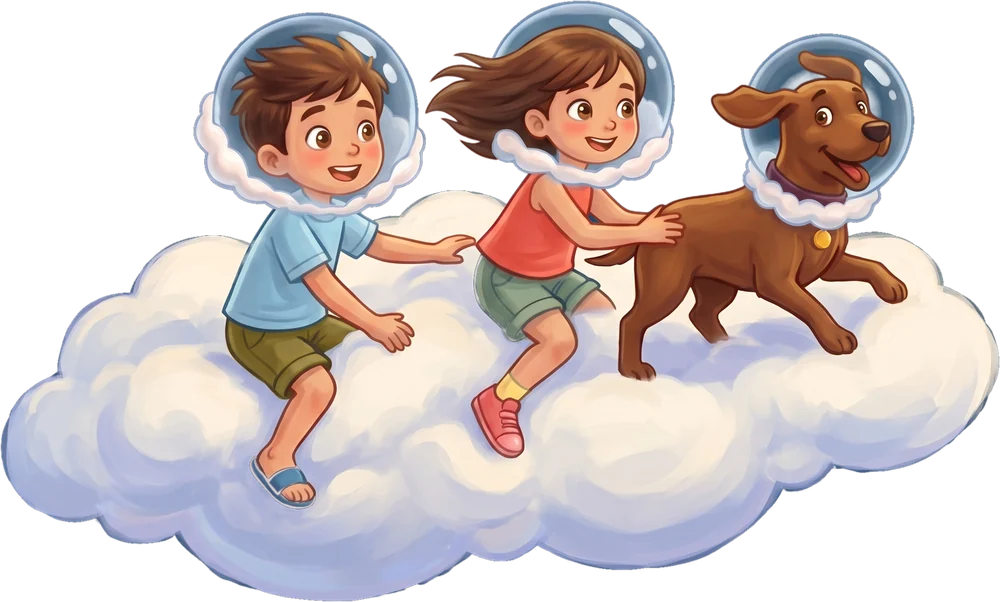
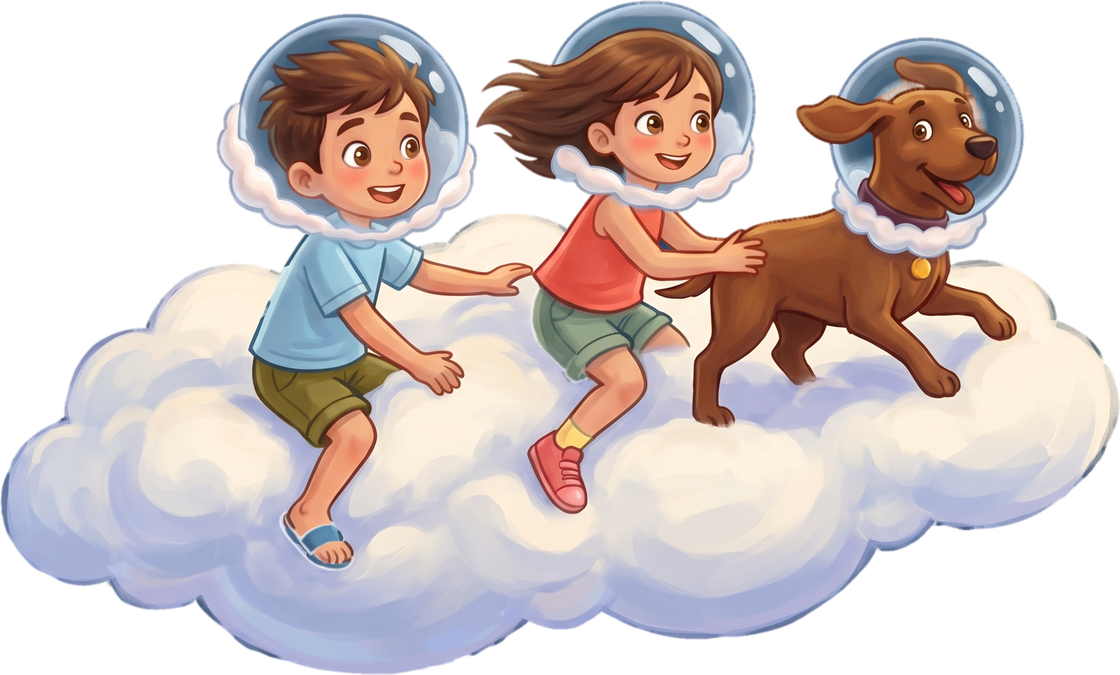
Homepage round 2: question bubble, real reader, cleaned character art
- Hero: the kids' questions now appear one at a time in a speech bubble with the
  matching story art; "bis es [Aha!] macht" with a popping Aha sticker
- Simulator: "Neues entdecken" removed; "Gemeinsam vorlesen" is a real reader with
  pages 1–3 of "Schafalarm im Sonnenfeld" (approved pages, app text): scroll the
  text, turn pages (buttons, swipe, arrow keys), hide the text, back to the book
  page, end screen pointing to the app. Phones and narrow columns get a readable
  card instead of the sideways phone
- Feature chips removed
- "Warum aha Kids": character art defringed (dark halo removed, lossless WebP)
  and floating gently with a soft shadow

diff --git a/index.html b/index.html
@@ -127,8 +127,23 @@
     @keyframes draw { to { stroke-dashoffset:0; } }
     .hero-spark { position:absolute; width:74px; height:74px; right:-52px; top:-30px; }
     .hero-spark path { stroke-dasharray:1; stroke-dashoffset:1; animation:draw .5s 1.3s ease-out forwards; }
-    .hero-lead { font-size:clamp(1.12rem, 1.6vw, 1.3rem); max-width:600px; margin-bottom:1rem; }
-    .hero-lead strong { font-weight:600; }
+    .sr { position:absolute; width:1px; height:1px; overflow:hidden; clip:rect(0 0 0 0); white-space:nowrap; }
+    /* hero: kids' questions, one at a time, in a speech bubble (brand speech frame) */
+    .ask { margin:.1rem 0 1.15rem; max-width:560px; }
+    .ask-bubble { position:relative; display:flex; align-items:center; gap:16px; background:#fff; border:3px solid var(--orange); border-radius:28px; padding:12px 24px 12px 12px; box-shadow:0 14px 34px rgba(23,63,53,.1); }
+    .ask-bubble::after { content:""; position:absolute; left:46px; bottom:-14px; width:24px; height:24px; background:#fff; border-right:3px solid var(--orange); border-bottom:3px solid var(--orange); border-bottom-right-radius:6px; transform:rotate(45deg); }
+    .ask-art { position:relative; flex:0 0 auto; width:68px; height:68px; border-radius:50%; border:4px solid var(--forest); overflow:hidden; background:var(--sky-bg); }
+    .ask-art img { position:absolute; inset:0; width:100%; height:100%; object-fit:cover; opacity:0; transform:scale(1.18); transition:opacity .5s, transform 1.1s cubic-bezier(.22,1,.36,1); }
+    .ask-art img.on { opacity:1; transform:scale(1); }
+    .ask-q { position:relative; flex:1; min-height:2.4em; font:800 clamp(1.3rem, 2.05vw, 1.62rem)/1.15 var(--display); text-align:left; }
+    .ask-q > span { position:absolute; left:0; right:0; top:50%; opacity:0; transform:translateY(calc(-50% + 20px)); transition:opacity .45s, transform .6s cubic-bezier(.22,1,.36,1); }
+    .ask-q > span.on { opacity:1; transform:translateY(-50%); }
+    .ask-q > span.out { opacity:0; transform:translateY(calc(-50% - 20px)); }
+    .ask-q em { font-style:normal; color:var(--orange); }
+    .ask-answer { margin-top:26px; font-size:clamp(1.08rem, 1.5vw, 1.24rem); line-height:1.5; }
+    .aha { display:inline-block; background:var(--orange); color:var(--forest); font:800 1.06em/1 var(--display); padding:.16em .55em .2em; border-radius:100px; transform:rotate(-5deg); margin:0 .12em; }
+    .aha.pop { animation:aha .65s cubic-bezier(.34,1.56,.64,1); }
+    @keyframes aha { 0% { transform:rotate(-5deg) scale(1); } 40% { transform:rotate(-10deg) scale(1.2); } 100% { transform:rotate(-5deg) scale(1); } }
     .hero-sub { color:var(--text-soft); max-width:580px; margin-bottom:2rem; }
     .hero-actions { display:flex; flex-wrap:wrap; gap:14px; align-items:center; }
     .hero-paper { margin-top:1.4rem; font-size:.95rem; color:var(--text-soft); }
@@ -170,7 +185,7 @@
 
     /* ===== DIE APP (cream, simulator) ===== */
     .app { padding:110px 0 110px; }
-    .app-grid { display:grid; grid-template-columns:minmax(0, 1fr) 520px; gap:56px; align-items:center; margin-top:46px; }
+    .app-grid { display:grid; grid-template-columns:minmax(0, 1fr) 640px; gap:48px; align-items:center; margin-top:46px; }
     .app-grid > *, .hero-grid > *, .warum-grid > *, .cta-grid > * { min-width:0; }
     .steps { list-style:none; display:flex; flex-direction:column; gap:10px; }
     .step { position:relative; width:100%; display:grid; grid-template-columns:44px 1fr; gap:4px 16px; text-align:left; cursor:pointer; overflow:hidden;
@@ -186,9 +201,6 @@
     .step-prog::after { content:""; display:block; height:100%; width:0; background:var(--sun); }
     .step.run .step-prog::after { animation:prog var(--step-ms, 6500ms) linear forwards; }
     @keyframes prog { to { width:100%; } }
-    .chips { display:flex; flex-wrap:wrap; gap:10px; margin-top:26px; }
-    .chip { display:inline-flex; align-items:center; gap:8px; padding:.5rem .95rem; border-radius:100px; background:var(--mist); font-size:.9rem; font-weight:600; }
-    .chip svg { width:17px; height:17px; color:var(--leaf); }
     .step-detail { display:none; }
 
     .stage { position:relative; height:700px; display:flex; align-items:center; justify-content:center; }
@@ -201,7 +213,56 @@
     .scr { position:absolute; inset:0; opacity:0; visibility:hidden; transition:opacity .45s, visibility 0s .45s; }
     .scr.on { opacity:1; visibility:visible; transition:opacity .45s; }
     .scr > img { width:100%; height:100%; object-fit:cover; }
-    .scr-read img { position:absolute; left:50%; top:50%; width:100cqh; height:100cqw; max-width:none; object-fit:cover; transform:translate(-50%,-50%) rotate(90deg); }
+    /* interactive reader: „Schafalarm im Sonnenfeld“, pages 1–3 (inside the sideways phone; sizes in cqw = screen width) */
+    .reader { position:absolute; left:50%; top:50%; width:100cqh; height:100cqw; transform:translate(-50%,-50%) rotate(90deg); overflow:hidden; background:#cfe3ef; color:#103830; font-family:var(--body); outline:none; }
+    .rd-stage { position:absolute; inset:0; overflow:hidden; touch-action:pan-y; }
+    .rd-page { position:absolute; inset:0; width:100%; height:100%; max-width:none; object-fit:cover; opacity:0; transform:translateX(26%); transition:transform .6s cubic-bezier(.22,1,.36,1), opacity .5s; -webkit-user-drag:none; user-select:none; }
+    .rd-page.on { opacity:1; transform:none; }
+    .rd-page.prev { transform:translateX(-26%); }
+    .rd-top { position:absolute; left:9%; top:6%; display:flex; gap:2.4cqw; align-items:center; z-index:3; }
+    .rd-btn { flex:0 0 auto; width:10cqw; height:10cqw; padding:0; border:0; border-radius:50%; background:rgba(255,255,255,.85); color:#103830; display:flex; align-items:center; justify-content:center; cursor:pointer; box-shadow:0 2px 6px rgba(0,0,0,.12); transition:background .2s, transform .2s; }
+    .rd-btn:hover { background:#fff; transform:scale(1.06); }
+    .rd-btn:disabled { opacity:.45; cursor:default; transform:none; }
+    .rd-btn svg { width:46%; height:46%; }
+    .rd-pill { height:10cqw; padding:0 3.8cqw; border-radius:100px; background:rgba(255,255,255,.88); display:flex; align-items:center; font-size:4.3cqw; font-weight:600; white-space:nowrap; }
+    .rd-eye { position:absolute; right:3%; top:6%; z-index:3; }
+    .rd-eye .i-show, .reader.no-text .rd-eye .i-hide { display:none; }
+    .reader.no-text .rd-eye .i-show { display:block; }
+    .rd-nav { position:absolute; right:3%; bottom:7%; display:flex; gap:2.4cqw; z-index:3; }
+    .rd-nav .rd-btn { width:12cqw; height:12cqw; }
+    .rd-next { background:var(--sun); }
+    .rd-next:hover { background:#f9d363; }
+    .rd-next.nudge { animation:nudge 1.6s ease-in-out 2; }
+    @keyframes nudge { 0%,100% { transform:none; } 50% { transform:translateX(5px); } }
+    .rd-panel { position:absolute; left:9%; top:23%; bottom:6%; width:39%; z-index:2; background:rgba(255,255,255,.88); -webkit-backdrop-filter:blur(6px); backdrop-filter:blur(6px); border-radius:5cqw; padding:3.6cqw 2.2cqw 3.6cqw 4.4cqw; transition:opacity .35s, transform .35s; }
+    .rd-panel::after { content:""; position:absolute; left:0; right:0; bottom:0; height:26%; border-radius:0 0 5cqw 5cqw; background:linear-gradient(rgba(255,255,255,0), rgba(255,255,255,.96)); pointer-events:none; opacity:var(--more, 1); transition:opacity .3s; }
+    .reader.no-text .rd-panel { opacity:0; transform:translateX(-10%); pointer-events:none; }
+    .rd-text { height:100%; overflow-y:auto; padding-right:2.2cqw; font-size:4.7cqw; line-height:1.5; overscroll-behavior:contain; scrollbar-width:thin; scrollbar-color:rgba(16,56,48,.35) transparent; }
+    .rd-text p + p { margin-top:.6em; }
+    .rd-scroll { position:absolute; left:50%; bottom:2.2cqw; transform:translateX(-50%); z-index:2; font-size:3.4cqw; font-weight:600; color:#103830; background:var(--sun); padding:.5cqw 2.6cqw; border-radius:100px; opacity:var(--more, 1); transition:opacity .3s; pointer-events:none; white-space:nowrap; }
+    .rd-end { position:absolute; inset:0; z-index:4; display:flex; flex-direction:column; align-items:center; justify-content:center; gap:2.6cqw; text-align:center; padding:0 14%; background:rgba(23,63,53,.9); color:var(--cream); opacity:0; pointer-events:none; transition:opacity .4s; }
+    .reader.at-end .rd-end { opacity:1; pointer-events:auto; }
+    .reader.at-end .rd-panel, .reader.at-end .rd-eye { opacity:0; pointer-events:none; }
+    .rd-end b { font:800 7.4cqw/1.15 var(--display); }
+    .rd-end span { font-size:4.6cqw; line-height:1.4; }
+    .rd-end button { margin-top:1.4cqw; border:0; border-radius:100px; background:var(--sun); color:var(--forest); font:600 4.6cqw var(--body); padding:2.4cqw 5.4cqw; cursor:pointer; }
+    /* card mode (phones, narrow columns): the same reader, readable, without the sideways phone */
+    .reader-card { display:none; width:100%; max-width:560px; container-type:inline-size; }
+    .stage.card-mode .phone { display:none; }
+    .stage.card-mode .reader-card { display:block; }
+    .reader-card .reader { position:relative; left:auto; top:auto; width:100%; height:auto; transform:none; overflow:visible; background:none; }
+    .reader-card .rd-stage { position:relative; inset:auto; aspect-ratio:1400/594; border-radius:20px; box-shadow:0 18px 40px rgba(23,63,53,.2); }
+    .reader-card .rd-top { gap:8px; left:3%; }
+    .reader-card .rd-btn { width:38px; height:38px; }
+    .reader-card .rd-nav .rd-btn { width:44px; height:44px; }
+    .reader-card .rd-pill { height:38px; padding:0 14px; font-size:14px; }
+    .reader-card .rd-panel { position:relative; left:auto; top:auto; bottom:auto; width:auto; margin-top:14px; padding:16px 10px 16px 18px; border-radius:20px; background:#fff; box-shadow:0 10px 26px rgba(23,63,53,.08); }
+    .reader-card .rd-panel::after { border-radius:0 0 20px 20px; }
+    .reader-card .rd-text { height:11.5em; font-size:16px; padding-right:10px; }
+    .reader-card .rd-scroll { bottom:10px; font-size:12px; padding:3px 10px; }
+    .reader-card .reader.no-text .rd-panel { opacity:.35; transform:none; }
+    .reader-card .rd-end { border-radius:20px; bottom:auto; height:calc(100cqw * 594 / 1400); gap:8px; padding:0 8%; }
+    .reader-card .rd-end b { font-size:20px; } .reader-card .rd-end span { font-size:14px; } .reader-card .rd-end button { font-size:14px; padding:8px 18px; }
     .sbar { position:absolute; top:0; left:0; right:0; height:52px; z-index:8; display:flex; align-items:center; justify-content:space-between; padding:6px 26px 0 30px; font:600 13px var(--body); color:#103830; pointer-events:none; transition:opacity .3s; }
     .phone.landscape .sbar { opacity:0; }
     .sim-play { position:absolute; left:50%; top:83.5%; width:17.8%; aspect-ratio:1; transform:translate(-50%,-50%); border-radius:50%; border:0; cursor:pointer; background:transparent; z-index:5; }
@@ -269,7 +330,11 @@
     .pillar h3 { font-size:1.28rem; align-self:end; }
     .pillar p { color:var(--text-soft); font-size:.98rem; }
     .cast { position:relative; text-align:center; }
-    .cast img { width:100%; max-width:560px; margin:0 auto; filter:drop-shadow(0 26px 40px rgba(23,63,53,.16)); }
+    .cast-art { position:relative; max-width:560px; margin:0 auto; padding-bottom:30px; }
+    .cast-art img { position:relative; z-index:1; width:100%; filter:drop-shadow(0 14px 22px rgba(23,63,53,.12)); animation:floaty 7s ease-in-out infinite; will-change:transform; }
+    .cast-art::after { content:""; position:absolute; left:24%; right:24%; bottom:6px; height:26px; border-radius:50%; background:radial-gradient(closest-side, rgba(23,63,53,.24), rgba(23,63,53,0)); animation:floatshadow 7s ease-in-out infinite; }
+    @keyframes floaty { 0%, 100% { transform:translateY(0) rotate(-.8deg); } 50% { transform:translateY(-16px) rotate(.8deg); } }
+    @keyframes floatshadow { 0%, 100% { transform:scaleX(1); opacity:1; } 50% { transform:scaleX(.8); opacity:.55; } }
     .cast-cap { display:inline-block; margin-top:8px; font:800 1.5rem var(--display); }
     .promise { margin-top:52px; text-align:center; font:800 clamp(1.25rem, 2.4vw, 1.7rem)/1.3 var(--display); }
     .promise svg { display:inline-block; vertical-align:-6px; width:30px; height:30px; margin-right:8px; }
@@ -306,8 +371,11 @@
     .reveal.visible { opacity:1; transform:none; }
 
     /* ===== responsive ===== */
+    @media (max-width:1240px) {
+      .app-grid { grid-template-columns:minmax(0, 1fr) 520px; gap:40px; }
+    }
     @media (max-width:1060px) {
-      .app-grid { grid-template-columns:minmax(0,1fr) 400px; gap:36px; }
+      .app-grid { grid-template-columns:minmax(0,1fr) 440px; gap:36px; }
       .tracks { grid-template-columns:1fr; max-width:560px; }
       .track { display:grid; grid-template-columns:auto 1fr; gap:0 22px; align-items:center; }
       .track-art { width:104px; height:104px; margin:0; grid-row:span 3; }
@@ -319,7 +387,8 @@
       .hero-media { order:-1; display:flex; justify-content:center; }
       .film { height:auto; width:min(100%, 400px); min-height:0; }
       .hero-copy { text-align:center; }
-      .hero-lead, .hero-sub { margin-left:auto; margin-right:auto; }
+      .hero-sub, .ask { margin-left:auto; margin-right:auto; }
+      .ask-bubble { text-align:left; }
       .hero-actions { justify-content:center; }
       .hero-spark { display:none; }
       .app-grid { grid-template-columns:1fr; gap:10px; }
@@ -333,7 +402,6 @@
       .step-text { display:none; }
       .step-prog { left:14px; right:14px; bottom:4px; }
       .step-detail { display:block; min-height:4.8em; margin-top:10px; font-size:1.02rem; color:var(--text-soft); text-align:center; }
-      .chips { justify-content:center; }
       .stage { height:620px; }
       .warum-grid, .cta-grid { grid-template-columns:1fr; }
       .cast { order:-1; }
@@ -354,6 +422,8 @@
       html { scroll-behavior:auto; }
       .reveal { opacity:1; transform:none; transition:none; }
       .hero h1 .ul svg path, .hero-spark path { animation:none; stroke-dashoffset:0; }
+      .cast-art img, .cast-art::after, .aha.pop, .rd-next.nudge { animation:none; }
+      .ask-q > span, .ask-art img, .rd-page { transition:none; }
       .phone, .bubble, .track, .btn { transition:none; }
       .sim-play::before { animation:none; }
     }
@@ -375,7 +445,14 @@
           <span class="ul"><span data-de="bessere Zukunft." data-en="better future.">bessere Zukunft.</span><svg viewBox="0 0 600 80" preserveAspectRatio="none" aria-hidden="true"><path pathLength="1" d="M20 45 Q316.8 34 580 41" stroke="#FF981C" stroke-width="14" stroke-linecap="round" fill="none" vector-effect="non-scaling-stroke"/></svg></span>
           <svg class="hero-spark" viewBox="0 0 200 200" aria-hidden="true"><g transform="translate(62 100) scale(1.1)" stroke="#FF981C" stroke-width="12" stroke-linecap="round" fill="none"><path pathLength="1" d="M0 -18 L12 -50"/><path pathLength="1" d="M24 0 L58 -8"/><path pathLength="1" d="M20 25 L47 48"/></g></svg>
         </h1>
-        <p class="hero-lead reveal" data-de="Wohin reist ein Regentropfen? Wie wird Sonne zu Strom? Kinder stellen große Fragen. aha Kids antwortet mit spannenden Geschichten – bis es Aha macht." data-en="Where does a raindrop travel? How does sunshine become electricity? Children ask big questions. aha Kids answers with exciting stories – until it clicks.">Wohin reist ein Regentropfen? Wie wird Sonne zu Strom? Kinder stellen große Fragen. aha Kids antwortet mit spannenden Geschichten – bis es Aha macht.</p>
+        <div class="ask reveal">
+          <p class="sr" data-de="Kinder fragen zum Beispiel: Wohin reist ein Regentropfen? Wie wird Sonne zu Strom?" data-en="Children ask, for example: Where does a raindrop travel? How does sunshine become electricity?">Kinder fragen zum Beispiel: Wohin reist ein Regentropfen? Wie wird Sonne zu Strom?</p>
+          <div class="ask-bubble" aria-hidden="true">
+            <span class="ask-art"><img src="images/app/covers/sus10.jpg" alt="" class="on"><img src="images/app/covers/sus03.jpg" alt=""><img src="images/app/covers/sus20.jpg" alt=""><img src="images/app/covers/sus02.jpg" alt=""><img src="images/app/covers/sus25.jpg" alt=""><img src="images/app/covers/sus06.jpg" alt=""></span>
+            <span class="ask-q"><span class="on" data-de="Wohin reist ein Regentropfen?" data-en="Where does a raindrop travel?">Wohin reist ein Regentropfen?</span><span data-de="Wie wird Sonne zu Strom?" data-en="How does sunshine become electricity?">Wie wird Sonne zu Strom?</span><span data-de="Ist krummes Gemüse genauso lecker?" data-en="Is wonky veg just as tasty?">Ist krummes Gemüse genauso lecker?</span><span data-de="Warum brauchen Äpfel Wildbienen?" data-en="Why do apples need wild bees?">Warum brauchen Äpfel Wildbienen?</span><span data-de="Wie kann Zuckerrohr Sonne speichern?" data-en="How can sugarcane store sunlight?">Wie kann Zuckerrohr Sonne speichern?</span><span data-de="Warum schwitzt die Erde?" data-en="Why is the Earth sweating?">Warum schwitzt die Erde?</span></span>
+          </div>
+          <p class="ask-answer"><span data-de="Kinder stellen große Fragen. aha Kids antwortet mit spannenden Geschichten – bis es" data-en="Children ask big questions. aha Kids answers with exciting stories – until it goes">Kinder stellen große Fragen. aha Kids antwortet mit spannenden Geschichten – bis es</span> <span class="aha" aria-hidden="true">Aha!</span> <span data-de="macht." data-en="">macht.</span></p>
+        </div>
         <p class="hero-sub reveal" data-de="Mit Fiete, Lotte und Hund Paco entdeckt dein Kind Natur, Tiere, Umwelt und die kleinen Dinge, die unsere Welt besser machen. In der App zum Vorlesen, als Hörgeschichte und als Buch." data-en="With Fiete, Lotte and their dog Paco, your child discovers nature, animals, the environment and the little things that make our world a better place. In the app to read aloud, as an audio story and as a book.">Mit Fiete, Lotte und Hund Paco entdeckt dein Kind Natur, Tiere, Umwelt und die kleinen Dinge, die unsere Welt besser machen. In der App zum Vorlesen, als Hörgeschichte und als Buch.</p>
         <div class="hero-actions reveal">
           <a class="store" href="#" data-store aria-disabled="true">
@@ -454,17 +531,10 @@
           <ol class="steps" role="tablist" aria-label="Funktionen der App" data-aria-de="Funktionen der App" data-aria-en="App features">
             <li><button class="step on" type="button" role="tab" aria-selected="true" aria-controls="simStage" data-step="browse"><span class="step-num">1</span><span class="step-title" data-de="Geschichte aussuchen" data-en="Pick a story">Geschichte aussuchen</span><span class="step-text" data-de="Stöbert gemeinsam durch die Bibliothek. Einige Geschichten sind gratis, von allen anderen lest ihr die ersten Seiten als Vorschau." data-en="Browse the library together. Some stories are free, and you can preview the first pages of all the others.">Stöbert gemeinsam durch die Bibliothek. Einige Geschichten sind gratis, von allen anderen lest ihr die ersten Seiten als Vorschau.</span><span class="step-prog"></span></button></li>
             <li><button class="step" type="button" role="tab" aria-selected="false" aria-controls="simStage" data-step="book"><span class="step-num">2</span><span class="step-title" data-de="Worum geht’s?" data-en="What’s it about?">Worum geht’s?</span><span class="step-text" data-de="Jede Buchseite zeigt, worum es geht und was dein Kind dabei entdeckt. Mit „Weiterlesen“ geht es genau da weiter, wo ihr aufgehört habt." data-en="Each book page shows what the story is about and what your child will discover. “Continue” picks up exactly where you left off.">Jede Buchseite zeigt, worum es geht und was dein Kind dabei entdeckt. Mit „Weiterlesen“ geht es genau da weiter, wo ihr aufgehört habt.</span><span class="step-prog"></span></button></li>
-            <li><button class="step" type="button" role="tab" aria-selected="false" aria-controls="simStage" data-step="read"><span class="step-num">3</span><span class="step-title" data-de="Gemeinsam vorlesen" data-en="Read aloud together">Gemeinsam vorlesen</span><span class="step-text" data-de="Große Illustrationen im Querformat, der Text steht daneben. Text ausblenden und das Bild in Ruhe gemeinsam entdecken." data-en="Big landscape illustrations with the text beside them. Hide the text and explore the picture together.">Große Illustrationen im Querformat, der Text steht daneben. Text ausblenden und das Bild in Ruhe gemeinsam entdecken.</span><span class="step-prog"></span></button></li>
+            <li><button class="step" type="button" role="tab" aria-selected="false" aria-controls="simStage" data-step="read"><span class="step-num">3</span><span class="step-title" data-de="Gemeinsam vorlesen" data-en="Read aloud together">Gemeinsam vorlesen</span><span class="step-text" data-de="Große Illustrationen im Querformat, der Text steht daneben. Scrollt durch den Text, blättert weiter – oder blendet ihn aus und entdeckt das Bild gemeinsam. Probier’s aus!" data-en="Big landscape illustrations with the text beside them. Scroll the text, turn the page – or hide the text and explore the picture together. Try it!">Große Illustrationen im Querformat, der Text steht daneben. Scrollt durch den Text, blättert weiter – oder blendet ihn aus und entdeckt das Bild gemeinsam. Probier’s aus!</span><span class="step-prog"></span></button></li>
             <li><button class="step" type="button" role="tab" aria-selected="false" aria-controls="simStage" data-step="listen"><span class="step-num">4</span><span class="step-title" data-de="Einfach zuhören" data-en="Just listen">Einfach zuhören</span><span class="step-text" data-de="Viele Geschichten gibt es auch als Hörgeschichte. Play drücken und gemeinsam lauschen – tipp im Handy auf Play und hör rein." data-en="Many stories are also available as audio stories. Press play and listen together – tap play on the phone to hear it.">Viele Geschichten gibt es auch als Hörgeschichte. Play drücken und gemeinsam lauschen – tipp im Handy auf Play und hör rein.</span><span class="step-prog"></span></button></li>
-            <li><button class="step" type="button" role="tab" aria-selected="false" aria-controls="simStage" data-step="discover"><span class="step-num">5</span><span class="step-title" data-de="Neues entdecken" data-en="Discover more">Neues entdecken</span><span class="step-text" data-de="Neue Geschichten und die Lieblinge anderer Familien – auf der Entdecken-Seite gibt es immer wieder etwas Neues." data-en="New stories and other families’ favourites – there’s always something new on the Discover page.">Neue Geschichten und die Lieblinge anderer Familien – auf der Entdecken-Seite gibt es immer wieder etwas Neues.</span><span class="step-prog"></span></button></li>
           </ol>
           <p class="step-detail" id="stepDetail" aria-live="polite"></p>
-          <div class="chips">
-            <span class="chip"><svg viewBox="0 0 24 24" fill="none" stroke="currentColor" stroke-width="2.2" stroke-linecap="round" stroke-linejoin="round" aria-hidden="true"><path d="M12 3v12m0 0-4-4m4 4 4-4M5 21h14"/></svg><span data-de="Offline lesen" data-en="Read offline">Offline lesen</span></span>
-            <span class="chip"><svg viewBox="0 0 24 24" fill="none" stroke="currentColor" stroke-width="2.2" stroke-linecap="round" stroke-linejoin="round" aria-hidden="true"><circle cx="12" cy="12" r="9"/><path d="M3 12h18M12 3a14 14 0 0 1 0 18M12 3a14 14 0 0 0 0 18"/></svg><span data-de="Deutsch &amp; Englisch" data-en="German &amp; English">Deutsch &amp; Englisch</span></span>
-            <span class="chip"><svg viewBox="0 0 24 24" fill="none" stroke="currentColor" stroke-width="2.2" stroke-linecap="round" stroke-linejoin="round" aria-hidden="true"><circle cx="12" cy="12" r="9"/><path d="m5.6 5.6 12.8 12.8"/></svg><span data-de="Keine Fremdwerbung" data-en="No third-party ads">Keine Fremdwerbung</span></span>
-            <span class="chip"><svg viewBox="0 0 24 24" fill="none" stroke="currentColor" stroke-width="2.2" stroke-linecap="round" stroke-linejoin="round" aria-hidden="true"><rect x="4" y="10" width="16" height="11" rx="2.5"/><path d="M8 10V7a4 4 0 0 1 8 0v3"/></svg><span data-de="Käufe nur mit Eltern-Check" data-en="Purchases need a grown-up">Käufe nur mit Eltern-Check</span></span>
-          </div>
         </div>
 
         <div class="app-stage-col reveal">
@@ -500,14 +570,41 @@
                 </div>
                 <!-- 2–5 · real app screens (Michi's recordings) -->
                 <div class="scr" data-step="book"><img src="images/app/screens/bookpage.jpg" alt="Buchseite „Schafalarm im Sonnenfeld“ mit Weiterlesen, Von vorne und Hörgeschichte" data-alt-de="Buchseite „Schafalarm im Sonnenfeld“ mit Weiterlesen, Von vorne und Hörgeschichte" data-alt-en="Book page “Schafalarm im Sonnenfeld” with continue, start over and audio story" decoding="async"></div>
-                <div class="scr scr-read" data-step="read"><img src="images/app/screens/reader.jpg" alt="Lesemodus im Querformat: Illustration mit Text daneben" data-alt-de="Lesemodus im Querformat: Illustration mit Text daneben" data-alt-en="Landscape reading mode: illustration with the text beside it" decoding="async"></div>
+                <div class="scr scr-read" data-step="read">
+                  <div class="reader" id="reader" tabindex="0" aria-label="Leseprobe: Schafalarm im Sonnenfeld" data-aria-de="Leseprobe: Schafalarm im Sonnenfeld" data-aria-en="Reading sample: Schafalarm im Sonnenfeld">
+                    <div class="rd-stage" id="rdStage">
+                      <img class="rd-page on" src="images/app/reader/page-01.jpg" alt="Fiete, Lotte und Paco schauen über eine trockene Ebene auf etwas Blaues in der Ferne" data-alt-de="Fiete, Lotte und Paco schauen über eine trockene Ebene auf etwas Blaues in der Ferne" data-alt-en="Fiete, Lotte and Paco look across a dry plain at something blue in the distance" draggable="false">
+                      <img class="rd-page" src="images/app/reader/page-02.jpg" alt="Tashi in roter Jacke begrüßt Fiete, Lotte und Paco vor den Solarmodulen" data-alt-de="Tashi in roter Jacke begrüßt Fiete, Lotte und Paco vor den Solarmodulen" data-alt-en="Tashi in a red jacket welcomes Fiete, Lotte and Paco in front of the solar panels" draggable="false">
+                      <img class="rd-page" src="images/app/reader/page-03.jpg" alt="Eine Technikerin bürstet den Staub vom Solarmodul, ein Tropfen landet auf Pacos Nase" data-alt-de="Eine Technikerin bürstet den Staub vom Solarmodul, ein Tropfen landet auf Pacos Nase" data-alt-en="A technician brushes dust off a solar panel; a drop lands on Paco's nose" draggable="false">
+                      <div class="rd-top">
+                        <button class="rd-btn" type="button" id="rdClose" aria-label="Zurück zur Buchseite" data-aria-de="Zurück zur Buchseite" data-aria-en="Back to the book page"><svg viewBox="0 0 24 24" fill="none" stroke="currentColor" stroke-width="2.6" stroke-linecap="round" stroke-linejoin="round" aria-hidden="true"><path d="M6 6l12 12M18 6 6 18"/></svg></button>
+                        <button class="rd-btn" type="button" id="rdFirst" aria-label="Zur ersten Seite" data-aria-de="Zur ersten Seite" data-aria-en="To the first page" disabled><svg viewBox="0 0 24 24" fill="none" stroke="currentColor" stroke-width="2.6" stroke-linecap="round" stroke-linejoin="round" aria-hidden="true"><path d="M6 5v14M19 5l-9 7 9 7z" fill="currentColor"/></svg></button>
+                        <span class="rd-pill" id="rdPill">Seite 1 / 14</span>
+                      </div>
+                      <button class="rd-btn rd-eye" type="button" id="rdEye" aria-label="Text ausblenden" data-aria-de="Text ausblenden" data-aria-en="Hide text"><span class="i-hide"><svg viewBox="0 0 24 24" fill="none" stroke="currentColor" stroke-width="2.6" stroke-linecap="round" stroke-linejoin="round" aria-hidden="true"><path d="M2 12s3.6-7 10-7 10 7 10 7-3.6 7-10 7S2 12 2 12z"/><circle cx="12" cy="12" r="3"/></svg></span><span class="i-show"><svg viewBox="0 0 24 24" fill="none" stroke="currentColor" stroke-width="2.6" stroke-linecap="round" stroke-linejoin="round" aria-hidden="true"><path d="M3 3l18 18M10.6 6.1A10 10 0 0 1 12 6c6.4 0 10 6 10 6a17 17 0 0 1-3.3 3.9M6.6 6.6C3.7 8.4 2 12 2 12s3.6 7 10 7a9.6 9.6 0 0 0 4.4-1.1"/></svg></span></button>
+                      <div class="rd-nav">
+                        <button class="rd-btn rd-prev" type="button" id="rdPrev" aria-label="Vorherige Seite" data-aria-de="Vorherige Seite" data-aria-en="Previous page" disabled><svg viewBox="0 0 24 24" fill="none" stroke="currentColor" stroke-width="2.6" stroke-linecap="round" stroke-linejoin="round" aria-hidden="true"><path d="m15 5-7 7 7 7"/></svg></button>
+                        <button class="rd-btn rd-next" type="button" id="rdNext" aria-label="Nächste Seite" data-aria-de="Nächste Seite" data-aria-en="Next page"><svg viewBox="0 0 24 24" fill="none" stroke="currentColor" stroke-width="2.6" stroke-linecap="round" stroke-linejoin="round" aria-hidden="true"><path d="m9 5 7 7-7 7"/></svg></button>
+                      </div>
+                      <div class="rd-end">
+                        <b data-de="Wie geht’s weiter im Sonnenfeld?" data-en="What happens next in the sun field?">Wie geht’s weiter im Sonnenfeld?</b>
+                        <span data-de="Die ganze Geschichte mit 14 Seiten liest du in der aha Kids App." data-en="Read the whole 14-page story in the aha Kids app.">Die ganze Geschichte mit 14 Seiten liest du in der aha Kids App.</span>
+                        <button type="button" id="rdAgain" data-de="Nochmal von vorn" data-en="Start again">Nochmal von vorn</button>
+                      </div>
+                    </div>
+                    <div class="rd-panel"><div class="rd-text" id="rdText"></div><span class="rd-scroll" data-de="Weiter scrollen" data-en="Scroll for more">Weiter scrollen</span></div>
+                    <div class="rd-src" hidden><p>Fiete, Lotte und Paco sind in einer trockenen Gegend in China unterwegs. Die Sonne steht hell am wolkenlosen Himmel. Der Wind pustet Staub über den Boden und ringsum sind nur Steine und Sand zu sehen. Paco hechelt und sucht vergebens nach Schatten.</p><p>Da blitzt etwas Blaues in der Sonne. „Wasser!“, ruft Fiete. Paco sieht es auch und flitzt los. Doch als die drei näher kommen, gibt es weder Wellen noch ein Plätschern.</p><p>Lotte bleibt staunend stehen. „Das ist kein See. Das sind Solarmodule!“</p></div>
+                    <div class="rd-src" hidden><p>Zwischen den ersten Modulreihen kommt ein Junge in einer roten Jacke hervor. „Hallo! Ich bin Tashi“, sagt er. „Willkommen im Sonnenfeld.“</p><p>„Warum steht so ein riesiges Sonnenfeld ausgerechnet hier?“, fragt Lotte.</p><p>„Weil es hier nur selten regnet und an vielen Tagen die Sonne scheint“, erklärt Tashi. „So können die Module viel Sonnenlicht einfangen und daraus Strom machen.“</p><p>Da fegt eine kräftige Windböe über die Ebene. Staub wirbelt auf und legt sich wie ein grauer Schleier auf das blaue Glas.</p><p>Paco schnuppert. „Hatschi!“</p><p>Tashi zeigt auf das staubige Modul. „Die trockene Gegend hat aber auch einen Nachteil: Der Wind bringt immer wieder neuen Staub.“</p></div>
+                    <div class="rd-src" hidden><p>Eine Technikerin kommt mit einer langen Bürste auf sie zu.</p><p>„Damit genug Sonnenlicht auf die Module trifft, müssen wir den Staub regelmäßig entfernen“, erklärt Tashi.</p><p>Die Technikerin schiebt die weiche Bürste über das Glas.</p><p>Schschsch.</p><p>Ein wenig Wasser läuft über das Modul und nimmt den Staub mit.</p><p>„Warum spritzt sie es nicht einfach mit einem Wasserschlauch ab?“, fragt Fiete.</p><p>„Das würde viel mehr Wasser verbrauchen“, sagt Tashi. „Und weil es hier nur selten regnet, ist Wasser kostbar. Darum nimmt sie nur so viel, wie wirklich nötig ist.“</p><p>Ein Tropfen fällt vom Modul und landet mitten auf Pacos Nase. Paco leckt nach links. Dann nach rechts. Doch an den Tropfen kommt er nicht heran.</p><p>Fiete und Lotte müssen lachen.</p></div>
+                  </div>
+                </div>
                 <div class="scr scr-listen" data-step="listen"><img src="images/app/screens/player.jpg" alt="Hörgeschichten-Player „Die Kraft von Sonne und Wind“" data-alt-de="Hörgeschichten-Player „Die Kraft von Sonne und Wind“" data-alt-en="Audio story player “Die Kraft von Sonne und Wind”" decoding="async">
                   <button class="sim-play" type="button" id="simPlay" aria-label="Hörprobe „Die Kraft von Sonne und Wind“ abspielen" data-aria-de="Hörprobe „Die Kraft von Sonne und Wind“ abspielen" data-aria-en="Play sample “The Power of Sun and Wind”"><span class="pz"><svg width="44%" height="44%" viewBox="0 0 24 24" fill="#fff" aria-hidden="true"><rect x="5" y="4" width="5" height="16" rx="1.4"/><rect x="14" y="4" width="5" height="16" rx="1.4"/></svg></span></button>
                   <span class="sim-tip" data-de="Tipp auf Play" data-en="Tap play">Tipp auf Play</span>
                 </div>
-                <div class="scr" data-step="discover"><img src="images/app/screens/entdecken.jpg" alt="Entdecken-Seite mit Top Stories und neuen Geschichten" data-alt-de="Entdecken-Seite mit Top Stories und neuen Geschichten" data-alt-en="Discover page with top stories and new stories" decoding="async"></div>
               </div>
             </div>
+            <div class="reader-card" id="readerCard"></div>
           </div>
         </div>
       </div>
@@ -596,7 +693,7 @@
         </div>
       </div>
       <figure class="cast reveal">
-        <img src="images/brand/fiete-lotte-paco.webp" width="1000" height="603" alt="Fiete, Lotte und Hund Paco auf einer Wolke" data-alt-de="Fiete, Lotte und Hund Paco auf einer Wolke" data-alt-en="Fiete, Lotte and their dog Paco on a cloud" decoding="async">
+        <div class="cast-art"><img src="images/brand/fiete-lotte-paco.webp" width="1120" height="675" alt="Fiete, Lotte und Hund Paco auf einer Wolke" data-alt-de="Fiete, Lotte und Hund Paco auf einer Wolke" data-alt-en="Fiete, Lotte and their dog Paco on a cloud" decoding="async"></div>
         <figcaption class="cast-cap" data-de="Mit Fiete, Lotte und Paco." data-en="With Fiete, Lotte and Paco.">Mit Fiete, Lotte und Paco.</figcaption>
       </figure>
     </div>
@@ -757,7 +854,7 @@
     // ── app simulator ──
     var stage = $('#simStage'), phone = $('#phone'), steps = $$('.step'), scrs = $$('.scr'), detail = $('#stepDetail');
     var listenScr = $('.scr-listen'), simTrack = $('.track[data-key="sonne-und-wind"]');
-    var cur = 0, timer = null, auto = !reduce, inView = false, STEP_MS = 6500;
+    var cur = 0, timer = null, pageTimer = null, auto = !reduce, inView = false, STEP_MS = 6500;
     function syncSim() { listenScr.classList.toggle('playing', !$('audio', simTrack).paused); }
     function fit() {
       var land = phone.classList.contains('landscape');
@@ -767,12 +864,15 @@
     }
     function setDetail() { detail.textContent = $('.step-text', steps[cur]).textContent; }
     function show(i) {
+      if (steps[cur] && steps[cur].dataset.step === 'read' && steps[i].dataset.step !== 'read') clearTimeout(pageTimer);
       cur = i;
       steps.forEach(function (s, k) { s.classList.toggle('on', k === i); s.setAttribute('aria-selected', k === i ? 'true' : 'false'); s.classList.remove('run'); });
       var key = steps[i].dataset.step;
       scrs.forEach(function (s) { s.classList.toggle('on', s.dataset.step === key); });
       phone.classList.toggle('landscape', key === 'read');
-      fit(); setDetail(); schedule();
+      placeReader(); fit(); setDetail(); schedule();
+      if (key === 'read' && auto && inView) { goPage(0); clearTimeout(pageTimer); pageTimer = setTimeout(function () { if (auto) goPage(1); }, STEP_MS / 2); }
+      if (key === 'read') { var nx = $('#rdNext'); nx.classList.remove('nudge'); void nx.offsetWidth; nx.classList.add('nudge'); }
       if (window.matchMedia('(max-width:900px)').matches) {
         var li = steps[i].parentNode, row = li.parentNode;
         row.scrollTo({ left: li.offsetLeft - (row.clientWidth - li.offsetWidth) / 2, behavior: reduce ? 'auto' : 'smooth' });
@@ -797,8 +897,71 @@
     if ('IntersectionObserver' in window) {
       new IntersectionObserver(function (es) { inView = es[0].isIntersecting; if (inView) schedule(); else clearTimeout(timer); }, { threshold: 0.35 }).observe(stage);
     }
-    window.addEventListener('resize', fit);
-    fit(); setDetail();
+    window.addEventListener('resize', function () { placeReader(); fit(); });
+
+    // reader: three pages of „Schafalarm im Sonnenfeld“, scrollable text, page turning, text on/off
+    var reader = $('#reader'), readScr = $('.scr-read'), card = $('#readerCard'), rdPages = $$('.rd-page'), rdSrc = $$('.rd-src');
+    var rdText = $('#rdText'), rdPanel = $('.rd-panel'), page = 0, TOTAL = 14;
+    function placeReader() {
+      var cardMode = steps[cur].dataset.step === 'read' && stage.clientWidth < 600;
+      stage.classList.toggle('card-mode', cardMode);
+      var host = cardMode ? card : readScr;
+      if (reader.parentNode !== host) host.appendChild(reader);
+    }
+    function more() { var m = rdText.scrollHeight - rdText.clientHeight - rdText.scrollTop > 4; rdPanel.style.setProperty('--more', m ? 1 : 0); }
+    function pill() { $('#rdPill').textContent = T('Seite ', 'Page ') + (page + 1) + ' / ' + TOTAL; }
+    function goPage(n) {
+      var end = n >= rdPages.length;
+      reader.classList.toggle('at-end', end);
+      if (!end) {
+        page = Math.max(0, n);
+        rdPages.forEach(function (im, k) { im.classList.toggle('on', k === page); im.classList.toggle('prev', k < page); });
+        rdText.innerHTML = rdSrc[page].innerHTML; rdText.scrollTop = 0; more(); pill();
+      }
+      $('#rdPrev').disabled = page === 0 && !end; $('#rdFirst').disabled = page === 0 && !end;
+      $('#rdNext').disabled = end;
+    }
+    function rdUser(fn) { return function (e) { stopAuto(); clearTimeout(pageTimer); fn(e); }; }
+    $('#rdNext').addEventListener('click', rdUser(function () { goPage(page + 1); }));
+    $('#rdPrev').addEventListener('click', rdUser(function () { goPage(reader.classList.contains('at-end') ? page : page - 1); }));
+    $('#rdFirst').addEventListener('click', rdUser(function () { goPage(0); }));
+    $('#rdAgain').addEventListener('click', rdUser(function () { goPage(0); }));
+    $('#rdClose').addEventListener('click', rdUser(function () { show(1); }));
+    $('#rdEye').addEventListener('click', rdUser(function () {
+      var off = reader.classList.toggle('no-text'), b = $('#rdEye');
+      b.dataset.ariaDe = off ? 'Text einblenden' : 'Text ausblenden'; b.dataset.ariaEn = off ? 'Show text' : 'Hide text';
+      b.setAttribute('aria-label', T(b.dataset.ariaDe, b.dataset.ariaEn));
+    }));
+    rdText.addEventListener('scroll', more, { passive: true });
+    ['wheel', 'touchstart', 'pointerdown'].forEach(function (ev) { rdText.addEventListener(ev, function () { stopAuto(); clearTimeout(pageTimer); }, { passive: true }); });
+    reader.addEventListener('keydown', function (e) {
+      if (e.key === 'ArrowRight') { e.preventDefault(); rdUser(function () { goPage(page + 1); })(); }
+      else if (e.key === 'ArrowLeft') { e.preventDefault(); rdUser(function () { goPage(page - 1); })(); }
+    });
+    (function () {   // swipe on the picture
+      var x0 = null, st = $('#rdStage');
+      st.addEventListener('pointerdown', function (e) { x0 = e.clientX; });
+      st.addEventListener('pointerup', function (e) {
+        if (x0 === null) return; var dx = e.clientX - x0; x0 = null;
+        if (Math.abs(dx) > 40 && !e.target.closest('button')) rdUser(function () { goPage(page + (dx < 0 ? 1 : -1)); })();
+      });
+    })();
+    goPage(0);
+    placeReader(); fit(); setDetail();
+
+    // hero: one kids' question at a time, with the matching story art; „Aha!“ pops on every change
+    (function () {
+      var qs = $$('.ask-q > span'), arts = $$('.ask-art img'), aha = $('.aha'), i = 0, hover = false;
+      if (reduce || qs.length < 2) return;
+      var box = $('.ask'); box.addEventListener('mouseenter', function () { hover = true; }); box.addEventListener('mouseleave', function () { hover = false; });
+      setInterval(function () {
+        if (hover || document.hidden) return;
+        var old = qs[i]; old.classList.remove('on'); old.classList.add('out'); arts[i].classList.remove('on');
+        setTimeout(function () { old.classList.remove('out'); }, 650);
+        i = (i + 1) % qs.length; qs[i].classList.add('on'); arts[i].classList.add('on');
+        aha.classList.remove('pop'); void aha.offsetWidth; aha.classList.add('pop');
+      }, 2900);
+    })();
 
     // library: scrolls gently while it is on screen; any touch pauses it
     (function () {
@@ -820,9 +983,9 @@
     window.addEventListener('load', function () {
       if (typeof window.applyLang === 'function') {
         var orig = window.applyLang;
-        window.applyLang = function (l) { orig(l); filmUI(); setDetail(); };
+        window.applyLang = function (l) { orig(l); filmUI(); setDetail(); pill(); };
       }
-      filmUI(); setDetail();
+      filmUI(); setDetail(); pill();
     });
   })();
   </script>
